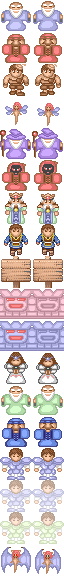
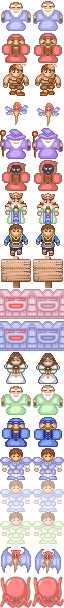
new npc little red octopus

diff --git a/project/floors/MT31.js b/project/floors/MT31.js
@@ -1,30 +1,30 @@
 main.floors.MT31=
 {
-"floorId": "MT31",
-"title": "主塔 31 层",
-"name": "31",
-"width": 13,
-"height": 13,
-"canFlyTo": true,
-"canFlyFrom": true,
-"canUseQuickShop": true,
-"cannotViewMap": false,
-"images": [],
-"ratio": 1,
-"defaultGround": "ground",
-"firstArrive": [],
-"eachArrive": [],
-"parallelDo": "",
-"events": {},
-"changeFloor": {},
-"beforeBattle": {},
-"afterBattle": {},
-"afterGetItem": {},
-"afterOpenDoor": {},
-"autoEvent": {},
-"cannotMove": {},
-"cannotMoveIn": {},
-"map": [
+    "floorId": "MT31",
+    "title": "主塔 31 层",
+    "name": "31",
+    "width": 13,
+    "height": 13,
+    "canFlyTo": true,
+    "canFlyFrom": true,
+    "canUseQuickShop": true,
+    "cannotViewMap": false,
+    "images": [],
+    "ratio": 1,
+    "defaultGround": "ground",
+    "firstArrive": [],
+    "eachArrive": [],
+    "parallelDo": "",
+    "events": {},
+    "changeFloor": {},
+    "beforeBattle": {},
+    "afterBattle": {},
+    "afterGetItem": {},
+    "afterOpenDoor": {},
+    "autoEvent": {},
+    "cannotMove": {},
+    "cannotMoveIn": {},
+    "map": [
     [  0,  0,  0,  0,  0,  0,  0,  0,  0,  0,  0,  0,  0],
     [  0,  0,  0,  0,  0,  0,  0,  0,  0,  0,  0,  0,  0],
     [  0,  0,  0,  0,  0,  0,  0,  0,  0,  0,  0,  0,  0],
@@ -33,10 +33,16 @@ main.floors.MT31=
     [  0,  0,  0,  0,  0,  0,  0,  0,  0,  0,  0,  0,  0],
     [  0,  0,  0,  0,  0,  0,  0,  0,  0,  0,  0,  0,  0],
     [  0,  0,  0,  0,  0,  0,  0,  0,  0,  0,  0,  0,  0],
-    [  0,  0,  0,  0,  0,  0,  0,  0,  0,  0,  0,  0,  0],
+    [  0,  0,  0,  0,  0,  0,1586,  0,  0,  0,  0,  0,  0],
     [  0,  0,  0,  0,  0,  0,  0,  0,  0,  0,  0,  0,  0],
     [  0,  0,  0,  0,  0,  0,  0,  0,  0,  0,  0,  0,  0],
     [  0,  0,  0,  0,  0,  0,  0,  0,  0,  0,  0,  0,  0],
     [  0,  0,  0,  0,  0,  0,  0,  0,  0,  0,  0,  0,  0]
 ],
+    "bgmap": [
+
+],
+    "fgmap": [
+
+]
 }

diff --git a/project/maps.js b/project/maps.js
@@ -1478,5 +1478,6 @@ var maps_90f36752_8815_4be8_b32b_d7fad1d0542e =
 	"1582": {"cls":"npcs","id":"N1582"},
 	"1583": {"cls":"npcs","id":"N1583"},
 	"1584": {"cls":"npcs","id":"N1584"},
-	"1585": {"cls":"terrains","id":"T1585","canPass":false}
+	"1585": {"cls":"terrains","id":"T1585","canPass":false},
+	"1586": {"cls":"npcs","id":"N1586"}
 }

diff --git a/project/icons.js b/project/icons.js
@@ -122,7 +122,8 @@ var icons_4665ee12_3a1f_44a4_bea3_0fccba634dc1 =
 		"N1581": 14,
 		"N1582": 15,
 		"N1583": 16,
-		"N1584": 17
+		"N1584": 17,
+		"N1586": 18
 	},
 	"npc48": {
 		"npc0": 0,
